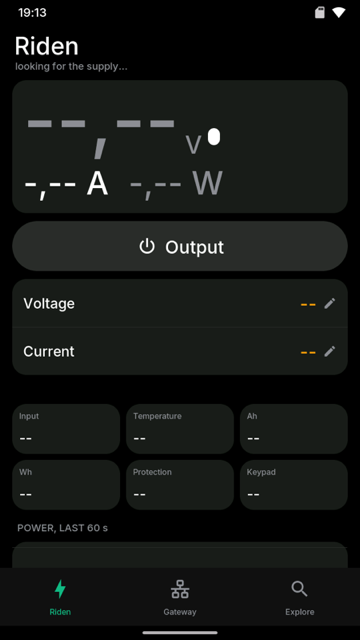
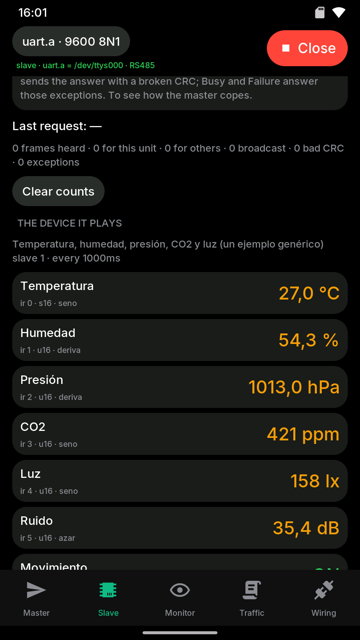
README: RS485 captures; Luces: odd and even the right way round
The README's workshop gets a section for RS485 with six captures from the
simulator (a Modbus slave playing a profile, the traffic, the DMX
analyzer, RDM with two fixtures, Luces' stage and scenes), the bench's
photos, the strip GIF and the wiring. The old Modbus capture was the
Riden panel, which is Equipos now: it moves there.

Taking them showed that Luces' "Pares" selected fixtures 1, 3, 5 (it
counted from 0): Pares is 2, 4, 6 now and Impares 1, 3, 5, on the board and
the portal page, translated Even and Odd. The app's title and its fades
(0.5 s in English) translate too.

diff --git a/apps/luces/web/luces.js b/apps/luces/web/luces.js
@@ -157,8 +157,8 @@ P.registerPage({
         h('div', { class: 'chips' },
           h('button', { class: 'btn', onclick: () => pick(st.aparatos.map((_, i) => i)) }, tr('Todos')),
           h('button', { class: 'btn', onclick: () => pick([]) }, tr('Ninguno')),
-          h('button', { class: 'btn', onclick: () => pick(st.aparatos.map((_, i) => i).filter(i => i % 2 === 0)) }, tr('Pares')),
-          h('button', { class: 'btn', onclick: () => pick(st.aparatos.map((_, i) => i).filter(i => i % 2 === 1)) }, tr('Impares')),
+          h('button', { class: 'btn', onclick: () => pick(st.aparatos.map((_, i) => i).filter(i => i % 2 === 1)) }, tr('Pares')),
+          h('button', { class: 'btn', onclick: () => pick(st.aparatos.map((_, i) => i).filter(i => i % 2 === 0)) }, tr('Impares')),
           selNote),
         groupsRow,
         tiles),

diff --git a/apps/luces/main/lz_tabs.c b/apps/luces/main/lz_tabs.c
@@ -105,7 +105,7 @@ static void scene_menu_cb(lv_event_t *e)
     for (int k = 0; k < 6; k++) {
         char t[16];
         if (FADE_MS[k] == 0) snprintf(t, sizeof t, "%s", _("Corte"));
-        else if (FADE_MS[k] % 1000) snprintf(t, sizeof t, "%u,%u s", FADE_MS[k] / 1000, FADE_MS[k] % 1000 / 100);
+        else if (FADE_MS[k] % 1000) snprintf(t, sizeof t, _("%u,%u s"), FADE_MS[k] / 1000, FADE_MS[k] % 1000 / 100);
         else snprintf(t, sizeof t, "%u s", FADE_MS[k] / 1000);
         lz_chip(fr, t, LZ.scenes[i].fade_ms == FADE_MS[k], scene_fade_cb, (void *)(intptr_t)k);
     }
@@ -158,7 +158,7 @@ void lz_scenes_build(lv_obj_t *parent, int32_t ch)
     for (int k = 0; k < 6; k++) {
         char t[16];
         if (FADE_MS[k] == 0) snprintf(t, sizeof t, "%s", _("Corte"));
-        else if (FADE_MS[k] % 1000) snprintf(t, sizeof t, "%u,%u s", FADE_MS[k] / 1000, FADE_MS[k] % 1000 / 100);
+        else if (FADE_MS[k] % 1000) snprintf(t, sizeof t, _("%u,%u s"), FADE_MS[k] / 1000, FADE_MS[k] % 1000 / 100);
         else snprintf(t, sizeof t, "%u s", FADE_MS[k] / 1000);
         P->fade_chip[k] = lz_chip(r, t, false, fade_cb, (void *)(intptr_t)k);
     }
@@ -182,7 +182,7 @@ void lz_scenes_build(lv_obj_t *parent, int32_t ch)
         char fd[16];
         uint16_t fm = LZ.scenes[i].fade_ms;
         if (!fm) snprintf(fd, sizeof fd, "%s", _("corte"));
-        else if (fm % 1000) snprintf(fd, sizeof fd, "%u,%u s", fm / 1000, fm % 1000 / 100);
+        else if (fm % 1000) snprintf(fd, sizeof fd, _("%u,%u s"), fm / 1000, fm % 1000 / 100);
         else snprintf(fd, sizeof fd, "%u s", fm / 1000);
         lv_obj_align(aos_label(t, fd, aos_font_tiny, AOS_C_DIM), LV_ALIGN_TOP_RIGHT, -14, 10);
         lv_obj_t *l = aos_label(t, LZ.scenes[i].name, aos_font_small, AOS_C_TEXT);

diff --git a/apps/luces/main/luces.c b/apps/luces/main/luces.c
@@ -425,7 +425,7 @@ static void build_screen(lv_obj_t *root)
     const int32_t tab_h = LZU.land ? 92 : 112, bar_h = 96;
     lv_obj_t *bar = lz_box(root, LZU.W, bar_h);
     lv_obj_set_style_pad_hor(bar, AOS_UI_PAD, 0);
-    lv_obj_align(aos_label(bar, "Luces", aos_font_large, AOS_C_TEXT), LV_ALIGN_TOP_LEFT, 0, 4);
+    lv_obj_align(aos_label(bar, _("Luces"), aos_font_large, AOS_C_TEXT), LV_ALIGN_TOP_LEFT, 0, 4);
     LZU.bar_state = aos_label(bar, "", aos_font_tiny, AOS_C_DIM);
     lv_obj_set_width(LZU.bar_state, LZU.W - 2 * AOS_UI_PAD - 330);
     lv_label_set_long_mode(LZU.bar_state, LV_LABEL_LONG_MODE_DOTS);

diff --git a/apps/luces/main/lz_stage.c b/apps/luces/main/lz_stage.c
@@ -58,7 +58,9 @@ static void tile_cb(lv_event_t *e)
 static void sel_cb(lv_event_t *e)
 {
     int k = (int)(intptr_t)lv_event_get_user_data(e);
-    for (int i = 0; i < LZ.nfix; i++) LZ.sel[i] = k == 0 ? true : k == 1 ? false : k == 2 ? i % 2 == 0 : i % 2 == 1;
+    /* Pares and Impares by the fixture's number as the user counts them, from 1:
+     * place 0 is fixture 1, odd */
+    for (int i = 0; i < LZ.nfix; i++) LZ.sel[i] = k == 0 ? true : k == 1 ? false : k == 2 ? i % 2 == 1 : i % 2 == 0;
     lz_stage_refresh();
 }
 

diff --git a/README.md b/README.md
@@ -343,9 +343,9 @@ port (`i2c.ext`, `spi.a`, `uart.*`, GPIO) and which modules hang from them.
 While an app uses a port it owns it, and Settings, Expansion draws the
 header with who holds each pin.
 
-| Bus (I2C scan) | Modules | Terminal | Programmer | Modbus | Electronics |
+| Bus (I2C scan) | Modules | Terminal | Programmer | Equipos (Riden) | Electronics |
 |---|---|---|---|---|---|
-| <img src="docs/img/app-bus.png" width="125"> | <img src="docs/img/app-modules.png" width="125"> | <img src="docs/img/app-serial.png" width="125"> | <img src="docs/img/app-flasher.png" width="125"> | <img src="docs/img/app-modbus.png" width="125"> | <img src="docs/img/app-elec.png" width="125"> |
+| <img src="docs/img/app-bus.png" width="125"> | <img src="docs/img/app-modules.png" width="125"> | <img src="docs/img/app-serial.png" width="125"> | <img src="docs/img/app-flasher.png" width="125"> | <img src="docs/img/app-equipos.png" width="125"> | <img src="docs/img/app-elec.png" width="125"> |
 
 - **Bus:** scans I2C and names what answers, talks to SPI chips with presets
   (flash memories, the MAX31855 and MAX6675 thermocouples, the MCP3008, the
@@ -486,6 +486,34 @@ turn behind the last ([video](docs/media/pca9685-servos.mp4)).
   <a href="docs/media/pca9685-servos.mp4"><img src="docs/img/pca9685-servos.gif" width="240" alt="Five servos on a PCA9685 moving in a wave, driven by the PWM app on the board"></a>
   <img src="docs/img/photo-pwm-pca9685-centre.jpg" width="240" alt="The PWM app with the servos at 90 degrees, the PCA9685 and five servos">
   <img src="docs/img/photo-pwm-pca9685-wave.jpg" width="240" alt="The servos mid-wave, the app showing a 4 s period">
+</p>
+
+### RS485: Modbus, DMX and Luces
+
+Since 0.25, three apps on the card for the header's RS485 port (`uart.a`,
+with a 3.3 V transceiver or an automatic "RS485 to TTL" module), each with
+a page in the portal (the Modbus, DMX, Luces and Equipos bullets above say
+what they do).
+
+| Modbus: a slave playing a profile | Modbus: traffic | DMX: analyzer | DMX: RDM | Luces: stage | Luces: scenes |
+|---|---|---|---|---|---|
+| <img src="docs/img/app-modbus.png" width="125"> | <img src="docs/img/app-modbus-traffic.png" width="125"> | <img src="docs/img/app-dmx-analyzer.png" width="125"> | <img src="docs/img/app-dmx-rdm.png" width="125"> | <img src="docs/img/app-luces-stage.png" width="125"> | <img src="docs/img/app-luces-scenes.png" width="125"> |
+
+The bench is the P4 and an ESP32 DevKit, each with an automatic module, on
+a twisted pair (`tools/rs485_test`): the ESP32 plays a Modbus slave or
+master, a DMX console, or a DMX light on a strip of 8 WS2812B pixels that
+also answers RDM. On the board: Modbus both ways with thousands of requests
+and only the errors played on purpose, the format of a slave found by the
+line's errors, DMX at 40 packets a second both ways, RDM finding the ESP32
+and moving its address, and Art-Net from a Mac coming out as DMX.
+
+<p align="center">
+  <img src="docs/img/bench-rs485-photo.jpg" width="230" alt="The P4 reading the ESP32 drive through two RS485 modules on a twisted pair">
+  <img src="docs/img/bench-dmx-photo.jpg" width="230" alt="The DMX console on the P4 sending a rainbow; the ESP32 in the DMX light role shows it on its strip">
+  <img src="docs/img/luces-strip.gif" width="230" alt="Luces on the P4 lighting the ESP32's strip">
+</p>
+<p align="center">
+  <img src="docs/img/bench-rs485.svg" width="560" alt="Wiring: the P4 and an ESP32, each with an automatic RS485 module, on one twisted pair, and the strip on the ESP32">
 </p>
 
 ### Datalog

diff --git a/CHANGELOG.md b/CHANGELOG.md
@@ -1,5 +1,13 @@
 # Changelog
 
+## Next
+
+- **Luces:** "Pares" selected fixtures 1, 3, 5... (the odd ones: it counted
+  from 0); now Pares is 2, 4, 6... and Impares 1, 3, 5..., on the board and
+  on the portal page. The app's own title and its fades (0.5 s) translate.
+- The README has captures of Modbus, DMX and Luces, and the Riden panel's
+  capture is Equipos'.
+
 ## 0.25.0 — 2026-11-09
 
 RS485 on the header, tried on a bench with an ESP32 and two automatic
